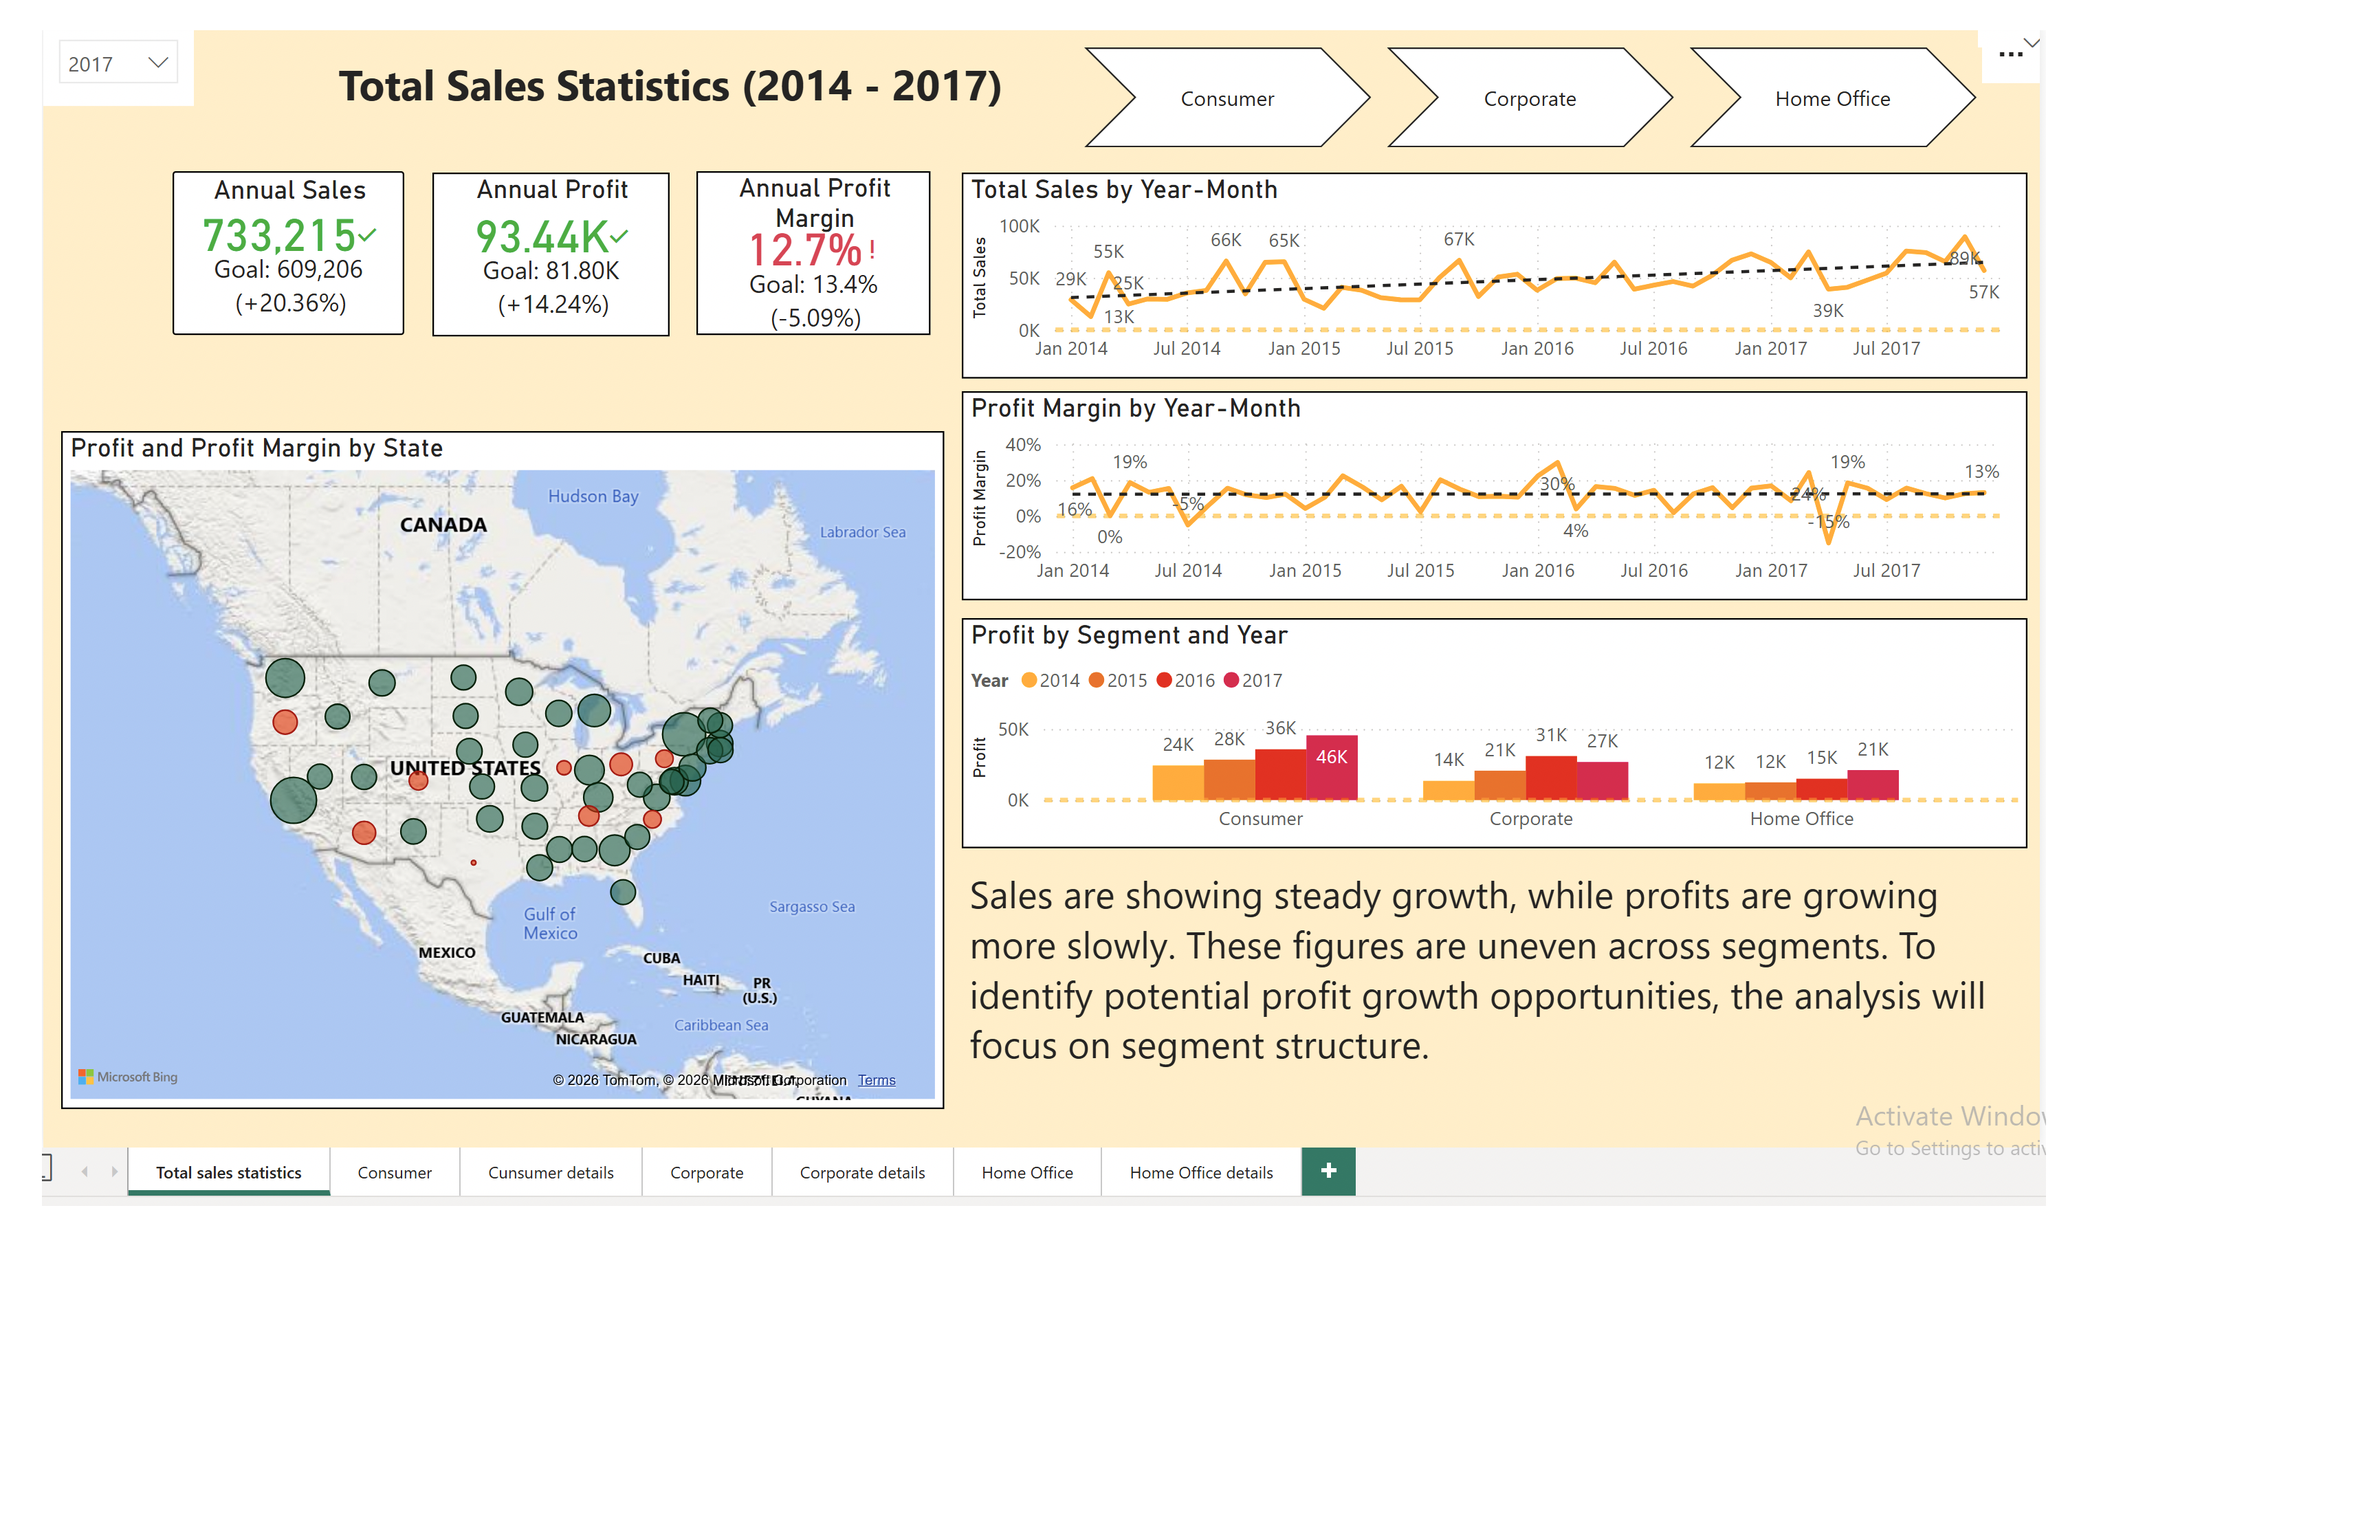
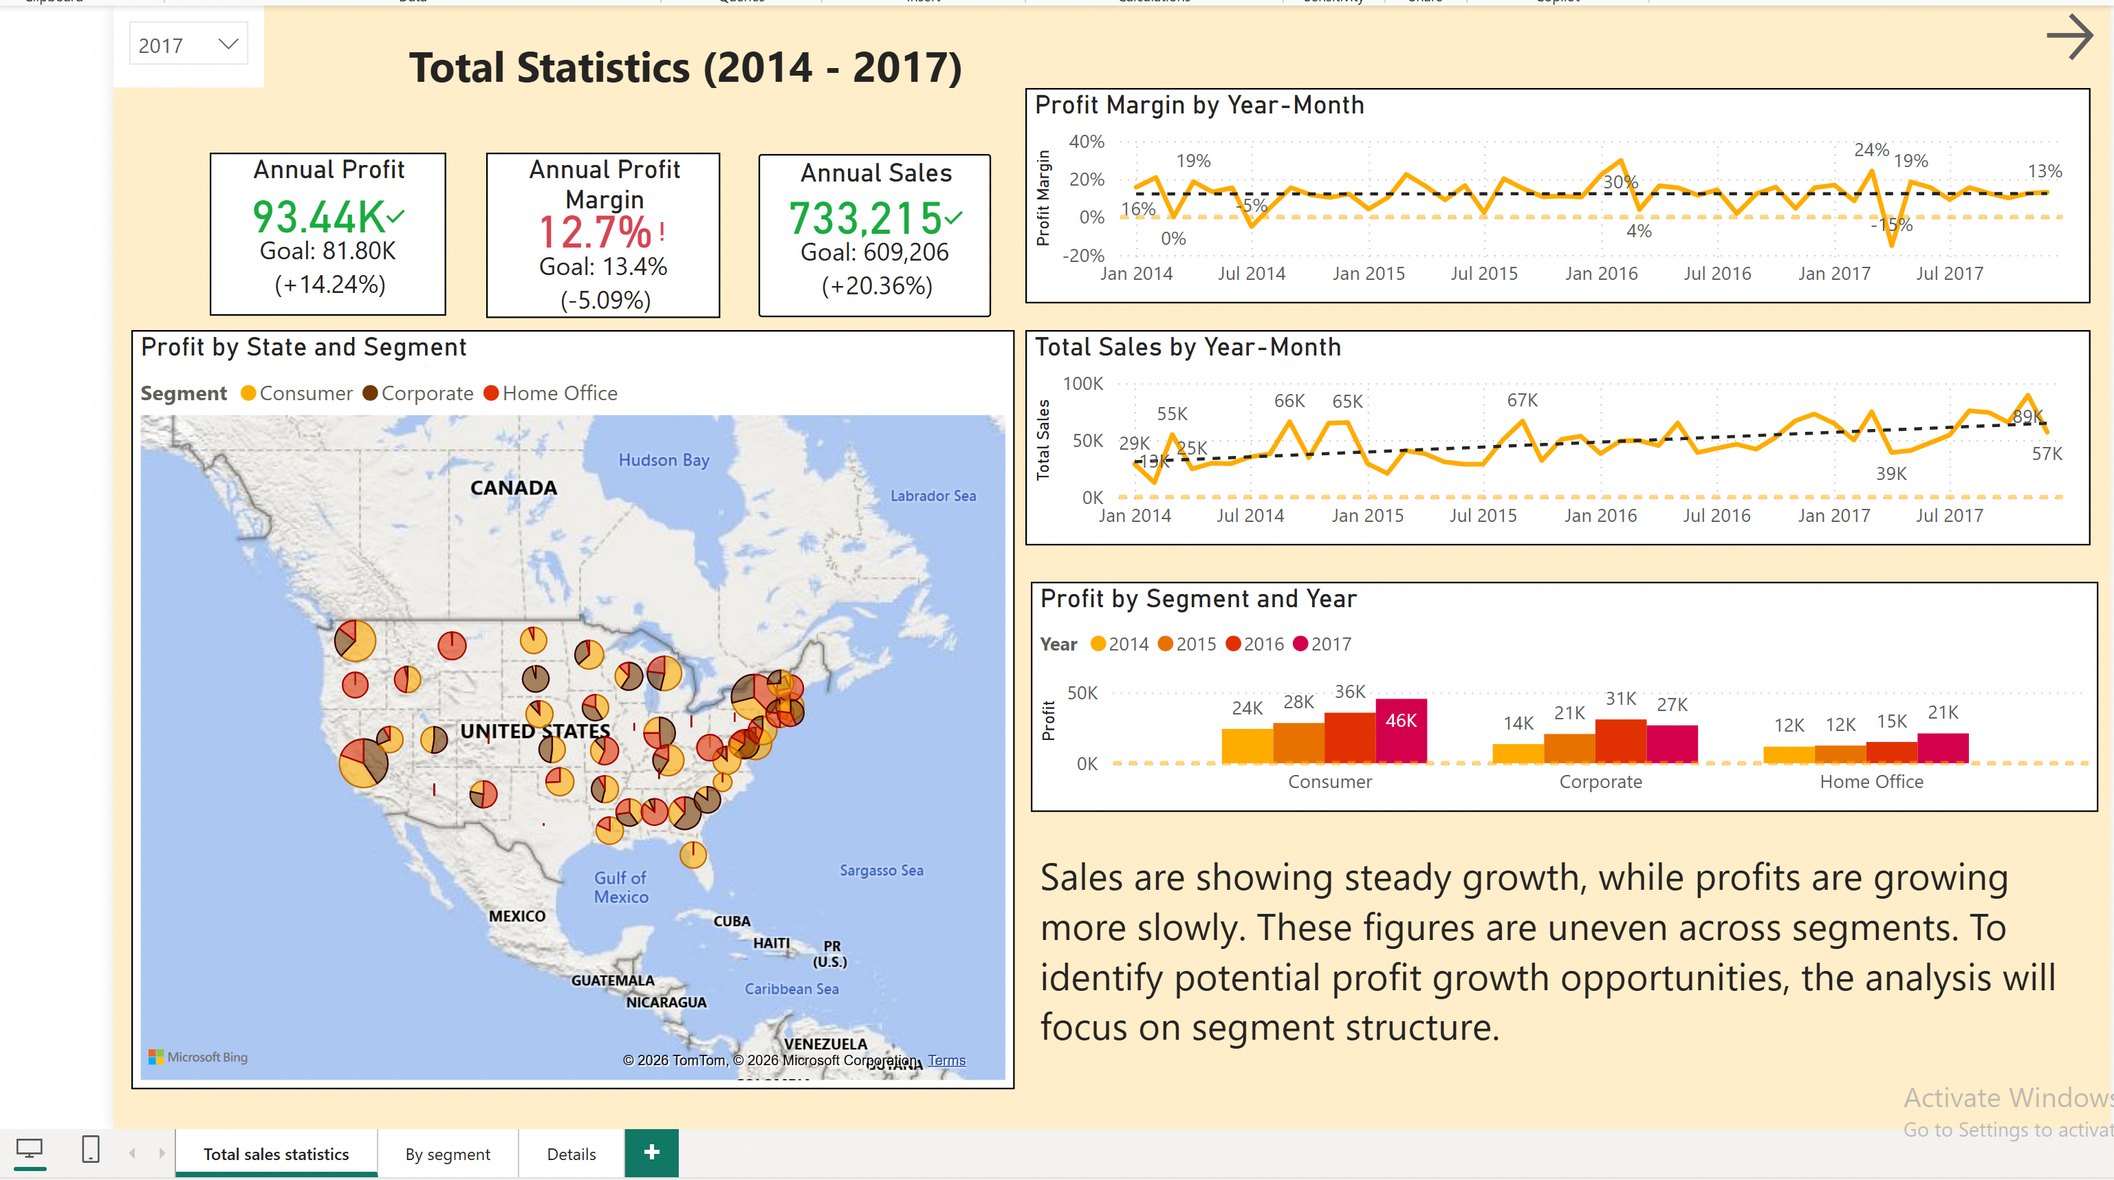
Delete screenshots and add screenshots and update README

diff --git a/README.md b/README.md
@@ -119,18 +119,19 @@ Dashboard Preview
 
 Watch demo: docs/dashboard_video/power_bi_dashboard_demo.gif
 
+Screenshots:
+- Overview (docs/dashboard_screenshots/1 Overview.png
+- Segment Analysis (docs/dashboard_screenshots/2 Segment Analysis.png
+- Details (docs/dashboard_screenshots/3 Details.png
+
+
 ⸻
 
 Key Insights
- • Sales performance varies significantly by region, with certain regions outperforming others in profitability
- 
- • Consumer segment drives the majority of revenue but has lower average margin
- 
- • Some product categories generate high revenue but low profit efficiency
- 
- • Seasonal trends can be observed in sales distribution over time
- 
-
+ • Sales are showing steady growth, while profits are growing more slowly. These figures are uneven across segments.
+ • In the Consumer segment, which accounts for 50 percent of profits, profits and sales are growing, but could have grown even further if the average order value had not fallen. A detailed analysis revealed that the East is the strongest region, while Central is the weakest.
+ • In the Corporate segment, which accounts for 30 percent of profits, sales are growing, but profits are falling. A detailed analysis revealed that East is again the strongest region, while Central is again the weakest.
+ • In the Home Office segment, the Furniture category is not profitable at all, but thanks to the Technology category accounting for 71 percent of profits, profits and sales are again growing. Here, the West is the strongest region, while the South is the weakest.
 
 ⸻
 
